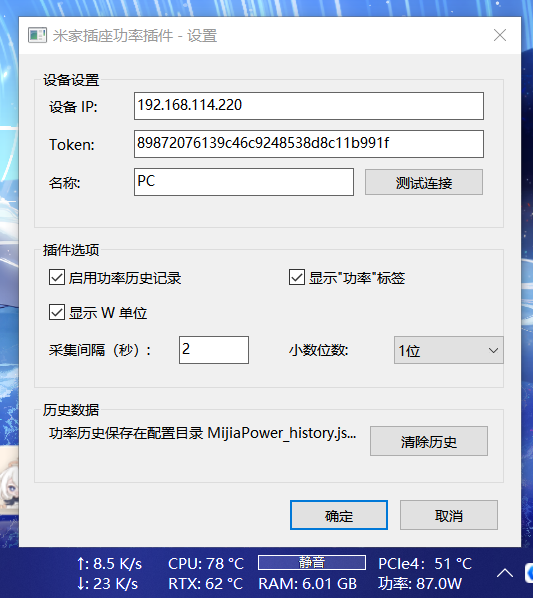
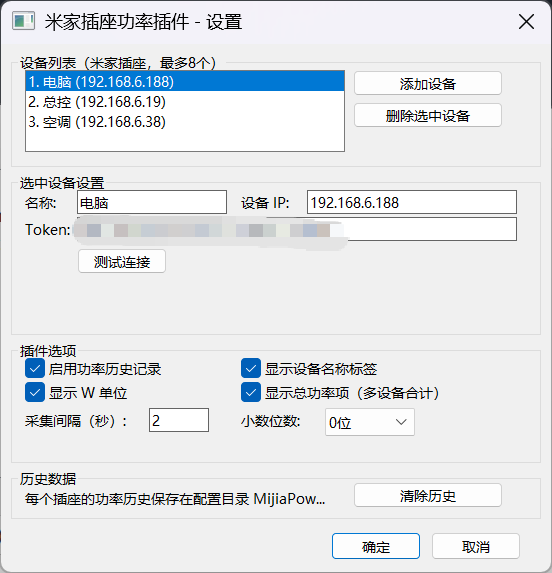
更新 README 截图为多设备设置界面

diff --git a/README.md b/README.md
@@ -3,7 +3,7 @@
 ## 简介
 
 这是一个 TrafficMonitor 插件，可以在 Windows 任务栏实时显示米家/酷控（cuco）智能插座的功率数值，并可选开启功率历史记录功能。
-<img width="533" height="598" alt="插件截图" src="https://github.com/user-attachments/assets/90fd0cb1-d807-4bc9-a64a-b7a10b8ae9c9" />
+<img width="552" alt="米家插座功率插件设置界面" src="插件截图.png" />
 
 
 
@@ -155,7 +155,7 @@ python -m miio.extract_tokens
 4. 点击 **测试连接** 验证
 5. 点击 **确定** 保存
 
-![插件配置界面](image.png)
+![插件配置界面](插件截图.png)
 
 ### 配置选项说明
 
